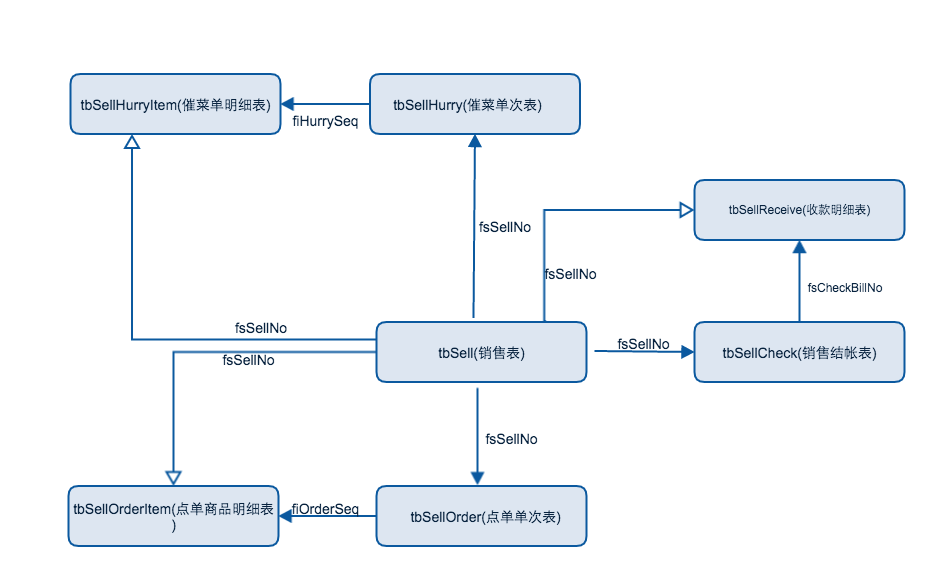
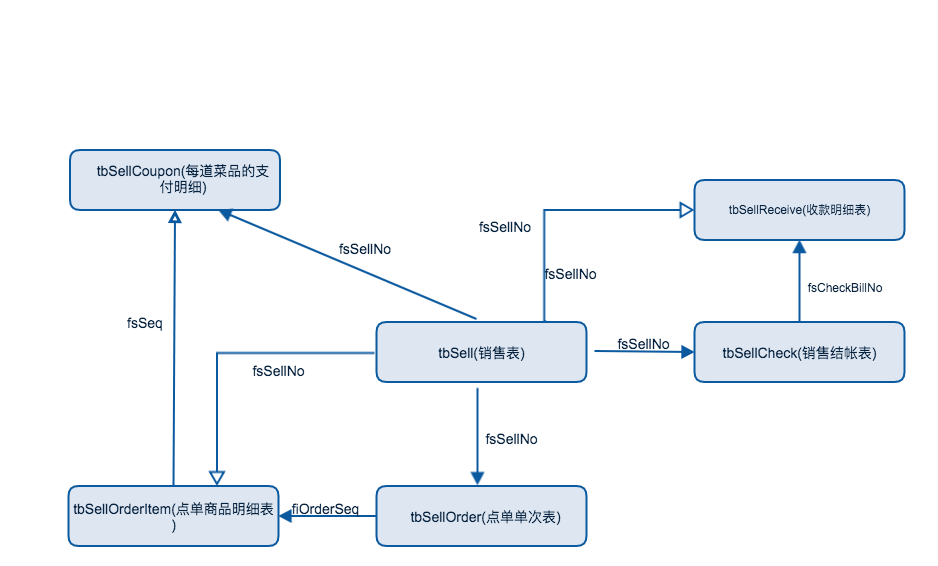
项目整理

diff --git a/项目分析.md b/项目分析.md
@@ -1,8 +1,16 @@
 # 项目
 
 ### 项目架构
-debug 下系统进程启动。
+![hahah](./image/progress/启动流程.png)
+
 ### 表设计
+- 第一范式：1NF是对属性的原子性约束，要求属性具有原子性，不可再分解； 
+- 第二范式：2NF是对记录的惟一性约束，要求记录有惟一标识，即实体的惟一性； 
+- 第三范式：3NF是对字段冗余性的约束，即任何字段不能由其他字段派生出来，它要求字段没有冗余。 
+
+1. 设计表结构，使用到了**面向对象**思想，一个对象一张表
+2. n-n 可以转换成 2个1-n。
+
 
 #### 订单
 ![hahah](./image/project/销售关联.png)
@@ -18,6 +26,12 @@ debug 下系统进程启动。
 - tbSellReceive：付款明细
 
 - tbSellCoupon：每道菜品的支付明细 （fsSeq：菜品下单唯一序号）
+
+#### 菜品
+![hahah](./image/project/菜品关系.png)
+
+#### 用户
+![hahah](./image/project/用户关联表.png)
 
 
 ### 插件化

diff --git a/1.2、android中的进程间通信.md b/1.2、android中的进程间通信.md
@@ -54,7 +54,7 @@ message.replyTo = msnClient;
 2. 进程关闭前先保存或者释放后背工作。
 3. 应用启动
 一般进程的承载这为四大组件中的Service、BroadcastReceiver标记不同进程方法：android:process=":bizcenter"，一些项目实践方案。
-
+一些项目实践
 启动过程：
 
 ![hahah](./image/progress/启动流程.png)
